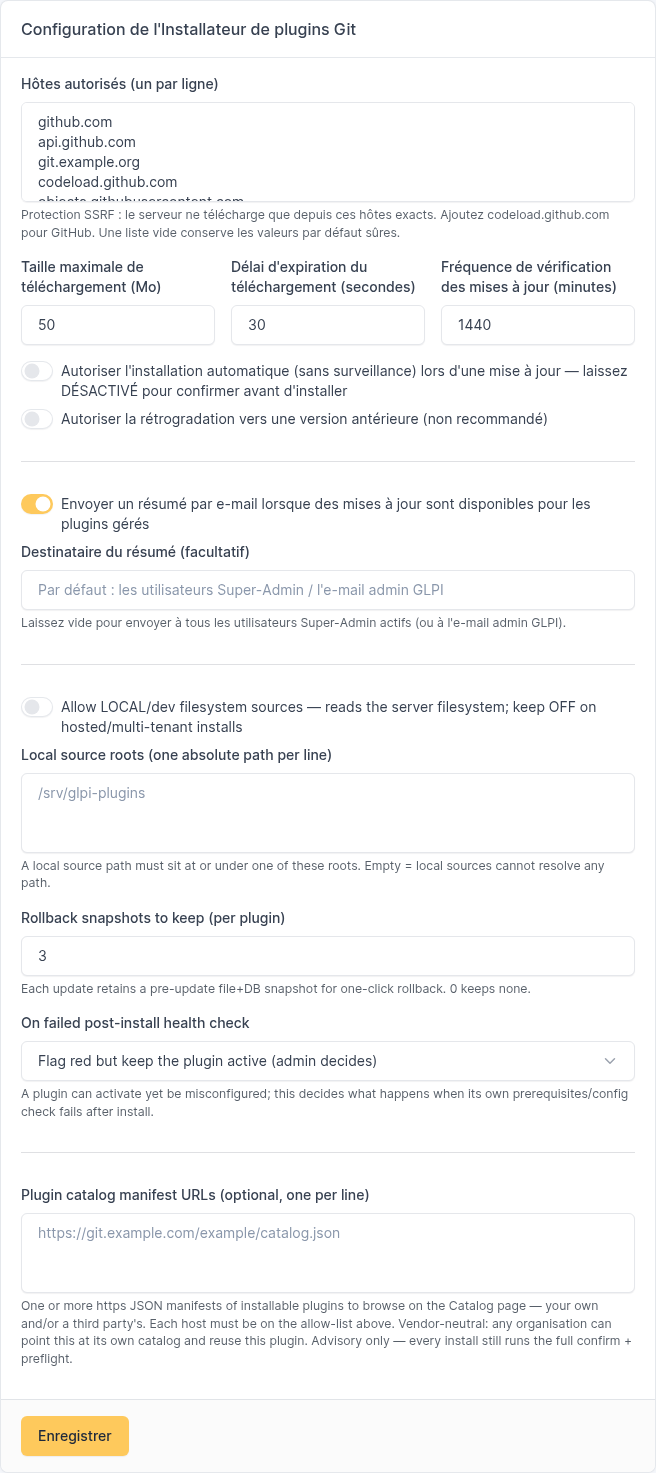
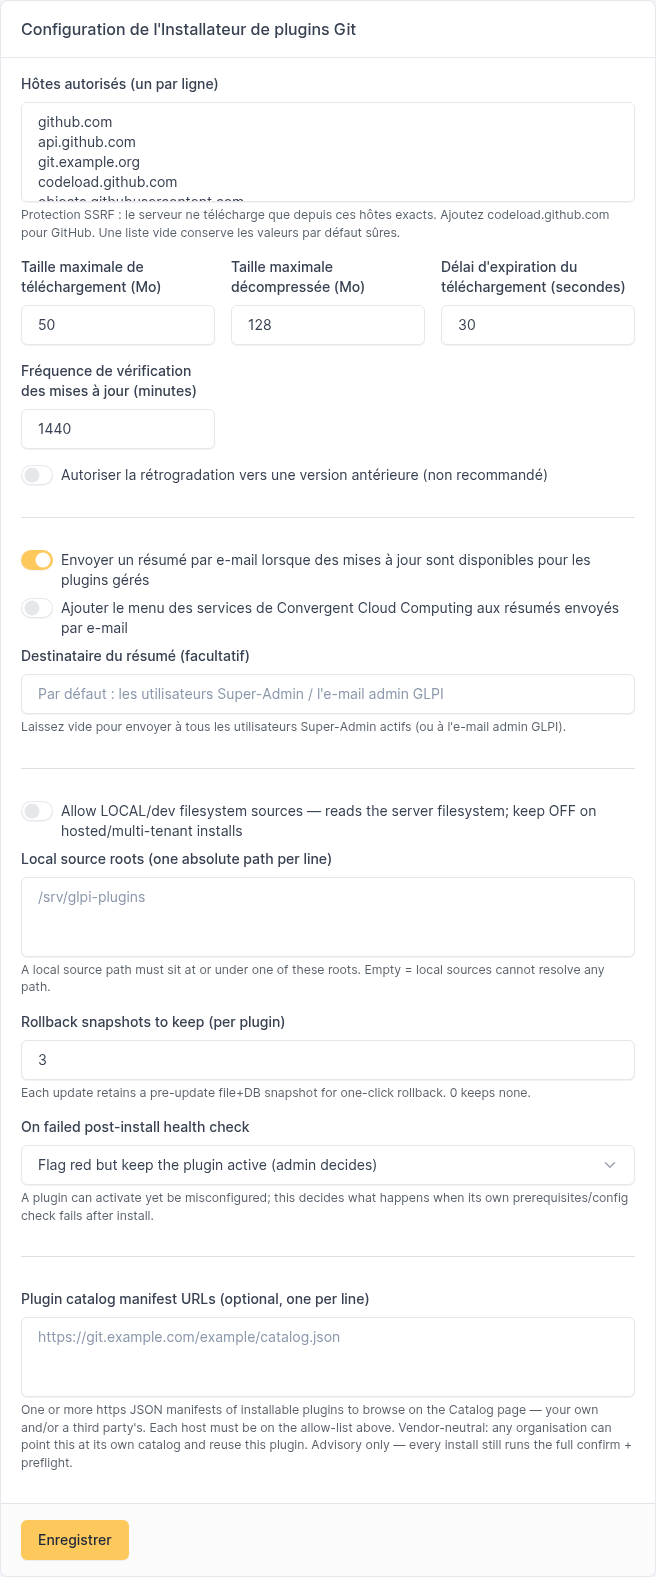
Captures refaites sur le banc GLPI 11 (version en cours de la ligne glpi-11-12) ; légendes à jour

diff --git a/docs/captures/README.md b/docs/captures/README.md
@@ -10,7 +10,7 @@ active. **Jamais prises à la main.**
 | `02-installed.png` | *Installed plugins* : chaque greffon présent sur le disque, lu dans son propre `plugin.xml`, avec l'état de sa source git (*managed*, *declared*, *no source*, *marketplace*), le dépôt, la référence et le fournisseur, et les actions *Add source* / *Register as managed source*. |
 | `03-sources.png` | *Sources* : les sources git gérées — nom, clé du greffon, fournisseur, politique de référence (branche, dernier tag, tag ou SHA épinglé, archive de version) — avec l'action *Install / Update*. |
 | `04-status.png` | *Managed plugin status* : version installée contre version disponible, action en attente, dernière vérification et son résultat, verdict de santé, et les accès *Catalog*, *Targets*, *Bulk update (dry-run)*. |
-| `05-config.png` | La configuration : liste blanche des hôtes (garde SSRF), taille et délai maximaux de téléchargement, fréquence de vérification, installation automatique et rétrogradation (désactivées par défaut), courriel de synthèse, sources locales. |
+| `05-config.png` | La configuration : liste blanche des hôtes (garde SSRF), taille et délai maximaux de téléchargement, fréquence de vérification, rétrogradation (désactivée par défaut), courriel de synthèse, sources locales. |
 | `06-sources-exemple.png` | Trois sources fictives (`exemple…`) suivies avec trois politiques : branche, tag épinglé, dernier tag. |
 | `07-nouvelle-source.png` | Le formulaire *Nouvelle source* : URL du dépôt et bouton *Détecter*, clé du plugin, politique de référence, jeton de dépôt privé. |
 | `08-etat-exemple.png` | L'écran *État* avec trois plugins fictifs, dont un à mettre à jour (ligne jaune et bandeau). |
